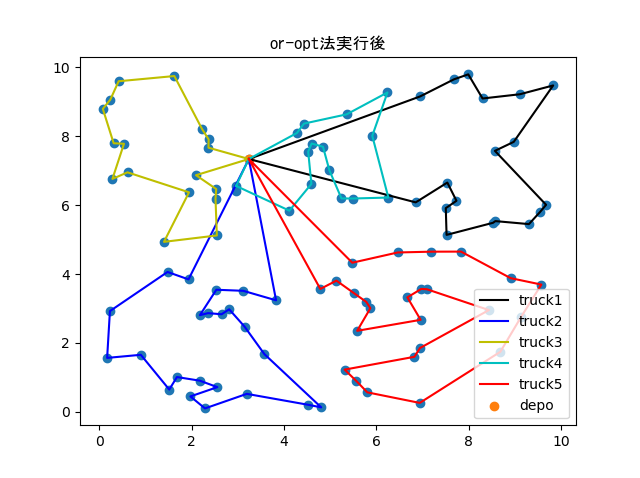
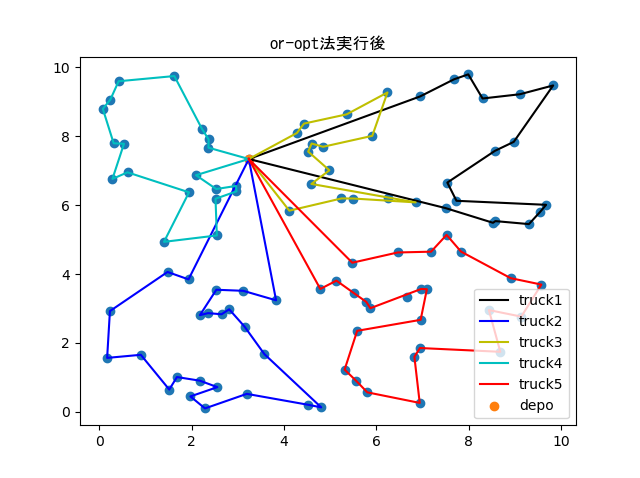
or-opt法重量バグ修正

diff --git a/module/vrp_module.py b/module/vrp_module.py
@@ -92,23 +92,23 @@ def or_opt_method(data,dis_mat,orders,TRUCK_CAPACITY):
                 if isBreak: break
                 ord=orders[i]
                 bef_score=-dis_mat[ord[b-1]][ord[b]]-dis_mat[ord[b+1]][ord[b+2]]+dis_mat[ord[b-1]][ord[b+2]]
-                dec_weight=data[ord[b]][2]+data[ord[b+1]][2]
+                change_weight=data[ord[b]][2]+data[ord[b+1]][2]
                 for e in range(len(orders[j])-1):
                     if isBreak: break
                     to_ord=orders[j]
                     aft_score=dis_mat[to_ord[e]][ord[b]]+dis_mat[to_ord[e+1]][ord[b+1]]-dis_mat[to_ord[e]][to_ord[e+1]]
-                    inc_weight=data[to_ord[e]][2]+data[to_ord[e+1]][2]
 
                     #他のルートに挿入すると総移動距離が短くなるとき
                     if bef_score+aft_score<0:
                         #挿入先の容量成約を満たしているならば
-                        if weights[j]+inc_weight<TRUCK_CAPACITY:
-                            weights[i]-=dec_weight
-                            weights[j]+=inc_weight
+                        if weights[j]+change_weight<TRUCK_CAPACITY:
+                            weights[i]-=change_weight
+                            weights[j]+=change_weight
 
-                            orders[j]=orders[j][0:e]+orders[i][b:b+1]+orders[j][e:]
+                            orders[j]=orders[j][0:e]+orders[i][b:b+2]+orders[j][e:]
                             orders[i]=orders[i][0:b]+orders[i][b+2:]
                             isBreak=True
+                            break
         
         #一度or-optが終わるたびに2opt法を実行する
         for i in range(len(orders)):
@@ -117,7 +117,7 @@ def or_opt_method(data,dis_mat,orders,TRUCK_CAPACITY):
         #変更がなくなったらループを終了
         if not isBreak: break
 
-    print("end of or-opt")              
+    print("finish or-opt")              
     show_truck_cap(weights,TRUCK_CAPACITY)
     return orders
 
@@ -167,6 +167,7 @@ def insert_construct(dis_mat,truck_size,TRUCK_CAPACITY,data,size):
         weights[truck_id]+=data[i][2]
     
     show_truck_cap(weights,TRUCK_CAPACITY)
+    #check_unvisit(data,orders)
     return orders
 
 def saving_construct(dis_mat,truck_size,TRUCK_CAPACITY,data,size):
@@ -216,6 +217,7 @@ def saving_construct(dis_mat,truck_size,TRUCK_CAPACITY,data,size):
     
     aft_weights=[weights[i] for i in valid]
     show_truck_cap(aft_weights,TRUCK_CAPACITY)
+    #check_unvisit(data,orders)
     return [orders[i-1] for i in valid]
 
 def kmeans(data,truck_size,TRUCK_CAPACITY):
@@ -246,6 +248,7 @@ def kmeans(data,truck_size,TRUCK_CAPACITY):
         i.append(0)
     
     show_truck_cap(weights,TRUCK_CAPACITY)
+    #check_unvisit(data,orders)
     #print(orders)
     return orders
 
@@ -253,3 +256,11 @@ def show_truck_cap(weights,TRUCK_CAPACITY):
     print("Truck Capacity:",TRUCK_CAPACITY)
     for i in range(len(weights)):
         print("weight",i+1,":",weights[i])
+    print("total weight:",sum(weights))
+
+def check_unvisit(data,orders):
+    customers=[False for i in range(len(data))]
+    for order in orders:
+        for i in order:
+            customers[i]=True
+    print("unvisit:",[i for i in range(len(customers)) if not customers[i]])
